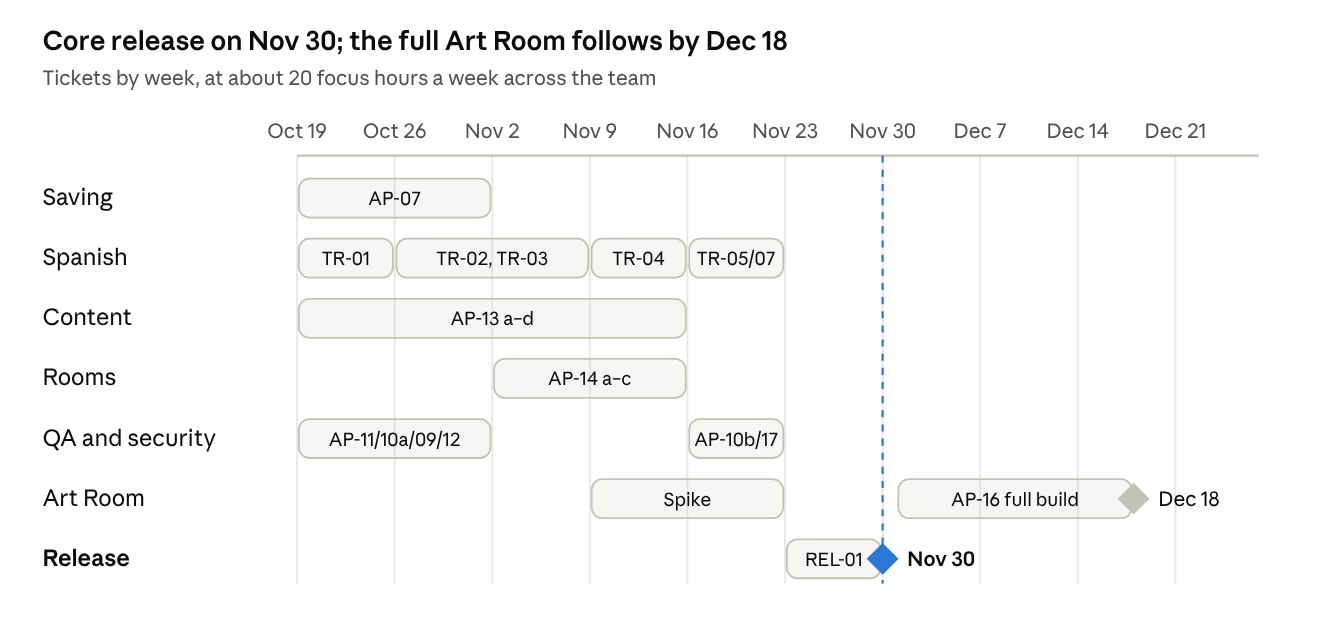
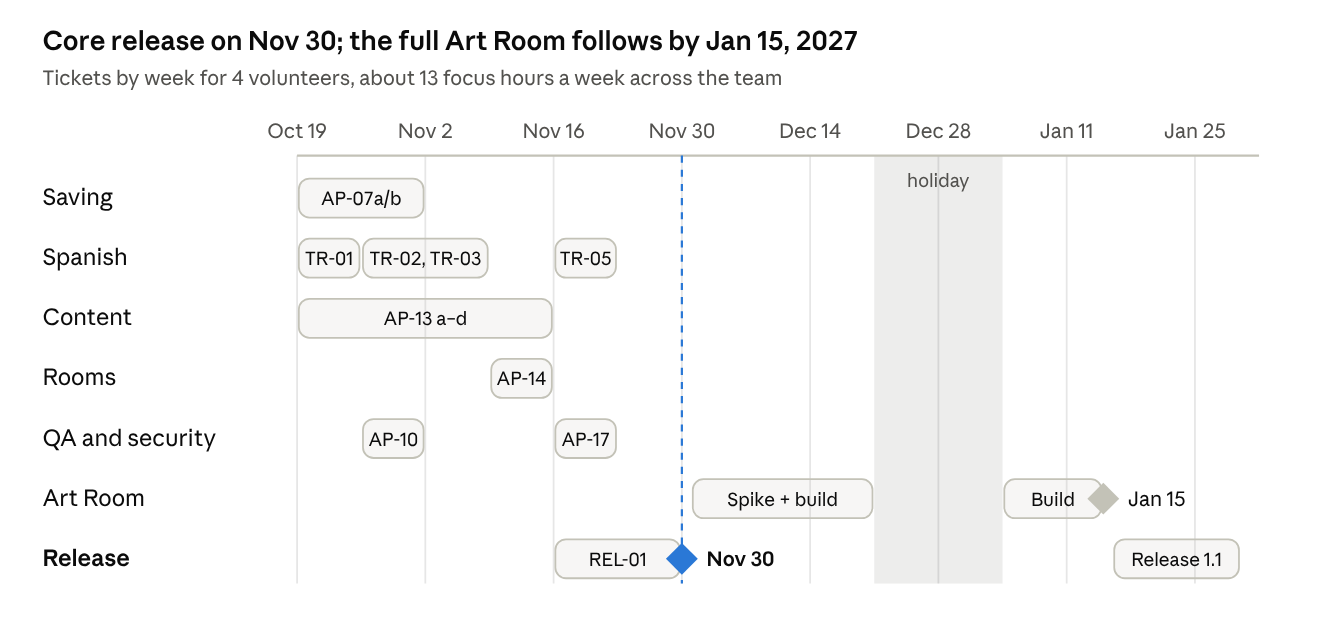
Rescale technical plan for 4 volunteers; Art Room target 15 Jan 2027

diff --git a/docs/technical-plan.md b/docs/technical-plan.md
@@ -9,9 +9,9 @@ The Wellness Portal is a free, anonymous website that Army Pink is building for 
 - **Where we are.** The foundation is complete and tested, about two weeks ahead of the original schedule. The site builds and runs, the privacy choice and device-only saving work end to end, and 92 automated tests pass. Most content is still placeholder text.
 - **How it is built.** The Portal is a static website with no backend server. That one decision removes the biggest privacy risk, a central store of survivors' data, and keeps the project cheap and simple for a volunteer team to run. Section 4 explains why.
 - **What happens next.** Six workstreams run in parallel over six weeks: saving polish, Spanish translation, real content, the recovery rooms, quality and security, and release.
-- **What changed in scope.** The developers are volunteers giving about 5 hours a week. The full interactive Art Room therefore moves to a second milestone, targeted for 18 December. The basic Art Room canvas ships at launch.
+- **What changed in scope.** The team is 4 volunteer developers giving about 5 hours a week, roughly 13 focused hours in total. That covers about 68 hours of work before 30 November, so the launch keeps every core feature and moves 33 hours of polish and tooling to a follow-up release in January. The full interactive Art Room moves to a second milestone, targeted for 15 January 2027. The basic Art Room canvas ships at launch.
 - **What we need from leadership.**
-  - confirmation of how many volunteers are active
+  - agreement that the deferred items in section 9 can follow in January
   - an owner for real content and for Spanish review
   - approval of the survivor-facing wording listed in section 11
 
@@ -189,18 +189,20 @@ No Spanish is shown for any clinical or safety content until TR-06 marks it appr
 
 ## 7. Team capacity
 
-The team has about 20 focused hours a week. This assumes 6 volunteers at 5 hours each, of which about two-thirds goes into tickets; the rest is code review, questions and context switching. With 5.5 working weeks to 29 November, that is about 110 focus hours. Thanksgiving week counts as half.
+The team has about 13 focused hours a week. That is 4 volunteers (confirmed 18 October) at 5 hours each, of which about two-thirds goes into tickets; the rest is code review, questions and context switching. With 5.5 working weeks to 29 November, that is about 74 focus hours, against 101 hours in the original release scope. The 33 lowest-risk hours move to Release 1.1 in January, leaving 68 hours and a 6-hour buffer. Thanksgiving week counts as half.
 
-| Input                     | Value    | Note                                                             |
-| ------------------------- | -------- | ---------------------------------------------------------------- |
-| Volunteer developers      | 6        | Assumption; recalculate when the roster is known                 |
-| Hours per person per week | 5        | Average stated by the team lead                                  |
-| Share spent on tickets    | 67%      | Remainder covers review, questions and setup                     |
-| Focus hours per week      | 20       | 6 × 5 × 0.67                                                     |
-| Weeks to release          | 5.5      | 19 Oct–29 Nov, Thanksgiving week at half                         |
-| Focus hours to release    | 110      |                                                                  |
-| Remaining release scope   | 104      | Backlog below, excluding the full Art Room                       |
-| Buffer                    | 6 h (5%) | Very thin: with fewer than 6 people, defer AP-12 and TR-07 first |
+| Input                     | Value    | Note                                                |
+| ------------------------- | -------- | --------------------------------------------------- |
+| Volunteer developers      | 4        | Confirmed 18 October                                |
+| Hours per person per week | 5        | Average stated by the team lead                     |
+| Share spent on tickets    | 67%      | Remainder covers review, questions and setup        |
+| Focus hours per week      | 13       | 4 × 5 × 0.67 = 13.4                                 |
+| Weeks to release          | 5.5      | 19 Oct–29 Nov, Thanksgiving week at half            |
+| Focus hours to release    | 74       |                                                     |
+| Original release scope    | 101      | 104 planned, less AP-11 (CI), which is already done |
+| Moved to Release 1.1      | 33       | Listed under "Deferred to Release 1.1" in section 9 |
+| Release scope now         | 68       |                                                     |
+| Buffer                    | 6 h (8%) | One volunteer missing a full week uses most of it   |
 
 **Working rules that make 5-hour weeks work.**
 
@@ -212,56 +214,61 @@ The team has about 20 focused hours a week. This assumes 6 volunteers at 5 hours
 
 ## 8. Schedule
 
-The core Portal releases on 30 November in English and Spanish. The full Art Room becomes a separate milestone with a target of 18 December, because the original plan's Art Room work does not fit in 5-hour weeks before then.
+The core Portal releases on 30 November in English and Spanish. The full Art Room becomes a separate milestone with a target of 15 January 2027, because the Art Room work does not fit in the team's 13 hours a week before launch. Lower-risk polish follows in Release 1.1 by 29 January 2027.
 
-![Schedule: tickets by week across 7 workstreams, core release 30 Nov, full Art Room by 18 Dec](images/schedule-timeline.png)
+![Schedule for 4 volunteers: core release 30 Nov, full Art Room by 15 Jan 2027, Release 1.1 by 29 Jan](images/schedule-timeline.png)
 
 Phases now run as parallel workstreams rather than in sequence. Week 6 holds only stabilization because of Thanksgiving. At launch the Art Room ships its current three-stage canvas, labelled as an early version.
 
-| Phase                                     | Original dates         | Revised dates           | State                 |
-| ----------------------------------------- | ---------------------- | ----------------------- | --------------------- |
-| 0 Audit and alignment                     | 19–23 Oct              | 18 Oct                  | Done                  |
-| 1 Shared foundation                       | 26–30 Oct              | 18 Oct                  | Done                  |
-| 2 Saving MVP                              | 2–6 Nov                | 18 Oct; polish in W1–W2 | Done; AP-07 remaining |
-| 3 Core experiences and content            | 9–13 Nov               | W1–W4                   | Planned               |
-| Spanish translation (new)                 | Not planned            | W1–W5                   | Planned               |
-| 4 Opportunities, partners, Art Room spike | 16–20 Nov              | W3–W5                   | Planned               |
-| 5 Testing, security, release readiness    | 23–25 Nov              | W5–W6                   | Partly in place       |
-| 6 Stabilization and release               | 26–30 Nov              | W6, release 30 Nov      | Planned               |
-| Art Room full build                       | 23–25 Nov, if feasible | 1–18 Dec                | Moved                 |
+| Phase                                     | Original dates         | Revised dates                           | State                 |
+| ----------------------------------------- | ---------------------- | --------------------------------------- | --------------------- |
+| 0 Audit and alignment                     | 19–23 Oct              | 18 Oct                                  | Done                  |
+| 1 Shared foundation                       | 26–30 Oct              | 18 Oct                                  | Done                  |
+| 2 Saving MVP                              | 2–6 Nov                | 18 Oct; polish in W1–W2                 | Done; AP-07 remaining |
+| 3 Core experiences and content            | 9–13 Nov               | W1–W4                                   | Planned               |
+| Spanish translation (new)                 | Not planned            | W1–W5                                   | Planned               |
+| 4 Opportunities, partners, Art Room spike | 16–20 Nov              | W2–W4; Art Room spike moved to December | Planned               |
+| 5 Testing, security, release readiness    | 23–25 Nov              | W5–W6                                   | Partly in place       |
+| 6 Stabilization and release               | 26–30 Nov              | W6, release 30 Nov                      | Planned               |
+| Art Room full build                       | 23–25 Nov, if feasible | 1 Dec–15 Jan, with a holiday break      | Moved                 |
 
 ## 9. Work backlog
 
-Release scope is 104 developer hours in tickets of 5 hours or less, ordered by week. AP-01 to AP-06 and AP-08 are done. TR-06 is review work for the content team and is not counted in developer hours.
+Release scope is 68 developer hours in tickets of 5 hours or less, about 13 hours a week. AP-01 to AP-06, AP-08 and AP-11 (CI) are done. TR-06 is review work for the content team and is not counted in developer hours.
 
-| Week | ID     | Ticket                                      | Workstream    | Hours    | Depends on | Acceptance criteria                                                |
-| ---- | ------ | ------------------------------------------- | ------------- | -------- | ---------- | ------------------------------------------------------------------ |
-| W1   | AP-11  | CI workflow                                 | QA & security | 3        | None       | Every PR runs typecheck, lint, unit and browser tests              |
-| W1   | TR-01  | Typed catalog and `t()`                     | Spanish       | 5        | None       | Unknown key fails typecheck; `<html lang>` follows choice          |
-| W1   | AP-07a | My Saved Items: group by room and activity  | Saving        | 3        | None       | Grouped list; filter keeps working; component test                 |
-| W1   | AP-10a | Accessibility checks with axe               | QA & security | 3        | None       | No serious or critical axe findings on any route                   |
-| W1   | AP-13a | Content schemas (Zod) for JSON              | Content       | 4        | None       | Schemas for library, modules, opportunities, partners, calm media  |
-| W2   | AP-07b | Saved Items: empty, error and reopen states | Saving        | 3        | AP-07a     | Tests for empty, storage-error and missing-item cases              |
-| W2   | TR-02a | Move shell and privacy strings to keys      | Spanish       | 4        | TR-01      | No sentence keys left in those files                               |
-| W2   | AP-13b | Healing Library as JSON                     | Content       | 4        | AP-13a     | Library pages read JSON; `data/portal.ts` entries removed          |
-| W2   | AP-09  | Remaining security items                    | QA & security | 4        | None       | Unused dependencies and components removed; dependency audit clean |
-| W2   | AP-12  | Analytics allowlist adapter (off)           | QA & security | 5        | None       | Rejects unknown events and free text; stays a no-op                |
-| W3   | TR-02b | Move room and library strings to keys       | Spanish       | 6        | TR-01      | Three PRs, one per area                                            |
-| W3   | AP-13c | Modules and Opportunities as JSON           | Content       | 4        | AP-13a     | Existing Opportunities categories preserved                        |
-| W3   | AP-14a | Recovery Rooms on shared components         | Rooms         | 4        | AP-13a     | Room pages use the shared card and SaveActions                     |
-| W3   | TR-03  | Review status and sensitive fallback        | Spanish       | 4        | TR-01      | Sensitive strings show English plus a notice until approved        |
-| W4   | AP-13d | Calm Room and partners as JSON              | Content       | 4        | AP-13a     | No invented partners; placeholders stay labelled                   |
-| W4   | AP-14b | Calm Room and Journals on shared components | Rooms         | 4        | AP-13d     | Media player accessible by keyboard; captions placeholder kept     |
-| W4   | AP-14c | Decision Support and Toolkit cleanup        | Rooms         | 4        | None       | Simulated PIN keeps its badge; save flow tested                    |
-| W4   | TR-04  | Translator CSV export/import and coverage   | Spanish       | 5        | TR-02a     | CSV round trip loses nothing; CI fails on missing keys             |
-| W4   | AP-18a | Art Room feasibility spike, part 1          | Art Room      | 3        | None       | Canvas approach chosen; touch and reduced-motion notes             |
-| W5   | TR-05  | Spanish layout QA                           | Spanish       | 4        | TR-02b     | Every route in Spanish passes on mobile and desktop                |
-| W5   | TR-07  | Spanish fields in content JSON              | Spanish       | 6        | AP-13b–d   | Status per record; fallback rule applied                           |
-| W5   | AP-10b | Browser tests per room                      | QA & security | 3        | AP-14a–c   | Each room's save path covered                                      |
-| W5   | AP-18b | Art Room spike, part 2 and estimate         | Art Room      | 3        | AP-18a     | Written estimate and ticket split for December                     |
-| W5   | AP-17  | Vercel deployment and rollback runbook      | QA & security | 4        | AP-11      | Preview deploy verified; rollback rehearsed once                   |
-| W6   | REL-01 | Stabilization and release checklist         | All           | 8        | All above  | Founder acceptance; known-limitations list published               |
-| Dec  | AP-16  | Full Art Room experience                    | Art Room      | about 30 | AP-18b     | Split into 5-hour tickets by the spike                             |
+| Week | ID      | Ticket                                       | Workstream    | Hours | Depends on | Acceptance criteria                                               |
+| ---- | ------- | -------------------------------------------- | ------------- | ----- | ---------- | ----------------------------------------------------------------- |
+| W1   | TR-01   | Typed catalog and `t()`                      | Spanish       | 5     | None       | Unknown key fails typecheck; `<html lang>` follows choice         |
+| W1   | AP-07a  | My Saved Items: group by room and activity   | Saving        | 3     | None       | Grouped list; filter keeps working; component test                |
+| W1   | AP-13a  | Content schemas (Zod) for JSON               | Content       | 4     | None       | Schemas for library, modules, opportunities, partners, calm media |
+| W2   | AP-07b  | Saved Items: empty, error and reopen states  | Saving        | 3     | AP-07a     | Tests for empty, storage-error and missing-item cases             |
+| W2   | TR-02a  | Move shell and privacy strings to keys       | Spanish       | 4     | TR-01      | No sentence keys left in those files                              |
+| W2   | AP-13b  | Healing Library as JSON                      | Content       | 4     | AP-13a     | Library pages read JSON; `data/portal.ts` entries removed         |
+| W2   | AP-10a  | Accessibility checks with axe                | QA & security | 3     | None       | No serious or critical axe findings on any route                  |
+| W3   | TR-02b  | Move room and library strings to keys        | Spanish       | 6     | TR-01      | Three PRs, one per area                                           |
+| W3   | AP-13c  | Modules and Opportunities as JSON            | Content       | 4     | AP-13a     | Existing Opportunities categories preserved                       |
+| W3   | TR-03   | Review status and sensitive fallback         | Spanish       | 4     | TR-01      | Sensitive strings show English plus a notice until approved       |
+| W4   | AP-13d  | Calm Room and partners as JSON               | Content       | 4     | AP-13a     | No invented partners; placeholders stay labelled                  |
+| W4   | AP-14a  | Recovery Rooms on shared components          | Rooms         | 4     | AP-13a     | Room pages use the shared card and SaveActions                    |
+| W4   | AP-14b  | Calm Room and Journals on shared components  | Rooms         | 4     | AP-13d     | Media player accessible by keyboard; captions placeholder kept    |
+| W5   | TR-05   | Spanish layout QA                            | Spanish       | 4     | TR-02b     | Every route in Spanish passes on mobile and desktop               |
+| W5   | AP-17   | Vercel deployment and rollback runbook       | QA & security | 4     | AP-11      | Preview deploy verified; rollback rehearsed once                  |
+| W5   | REL-01a | Release checklist and known-limitations list | All           | 3     | All above  | Checklist agreed with the founder                                 |
+| W6   | REL-01b | Stabilization and launch                     | All           | 5     | REL-01a    | Founder acceptance; release deployed 30 Nov                       |
+
+**Deferred to Release 1.1 (January 2027).** These 33 hours are the lowest-risk items: the launch works without them, and existing tests already cover the main flows. They are scheduled first after the Art Room work.
+
+| ID       | Ticket                                               | Hours | Why it can wait                                                |
+| -------- | ---------------------------------------------------- | ----- | -------------------------------------------------------------- |
+| AP-09    | Remaining security items (dependency pruning, audit) | 4     | Strict CSP and headers already in place                        |
+| AP-12    | Analytics allowlist adapter                          | 5     | Analytics stays off until the event list is approved anyway    |
+| TR-04    | Translator CSV export/import                         | 5     | Reviewers can work from the JSON files with a developer's help |
+| TR-07    | Spanish fields in content JSON                       | 6     | Content shows in English with a notice until then              |
+| AP-14c   | Decision Support and Toolkit cleanup                 | 4     | Both pages already work and save correctly                     |
+| AP-10b   | Browser tests per room                               | 3     | The main save flows are already tested                         |
+| AP-18a/b | Art Room feasibility spike                           | 6     | Moves with the Art Room milestone                              |
+
+**Art Room milestone.** The spike (6 h) plus the full build (AP-16, about 30 h) needs about three weeks at 13 hours a week. With a holiday break from 21 December to 3 January, the target is **15 January 2027**. The remaining Release 1.1 items follow by 29 January 2027.
 
 Week dates: W1 19–25 Oct, W2 26 Oct–1 Nov, W3 2–8 Nov, W4 9–15 Nov, W5 16–22 Nov, W6 23–29 Nov (half week).
 
@@ -293,16 +300,16 @@ The 30 November release ships only when every row below passes on the Vercel pre
 
 ## 11. Risks and approvals
 
-The biggest risk is capacity. A 6-hour buffer is lost if one volunteer misses two weeks, so scope is cut in a fixed order instead of letting the date slip.
+The biggest risk is capacity. With 4 volunteers, the 6-hour buffer is used up if one person misses a single week, so scope is cut in a fixed order instead of letting the date slip.
 
-| Risk                                                     | Effect                                   | Response                                                                              |
-| -------------------------------------------------------- | ---------------------------------------- | ------------------------------------------------------------------------------------- |
-| Fewer than 6 active volunteers, or less than 5 h each    | Release scope does not fit               | Defer in this order: AP-12, TR-07, AP-14c, AP-18b                                     |
-| Spanish reviewers not found by W4                        | Sensitive content stays English-only     | Acceptable at launch: the notice explains it; general UI still ships in draft Spanish |
-| Real content (Library, Opportunities) not supplied by W3 | Release ships with labelled placeholders | Content owner named in W1; placeholders keep their status tags                        |
-| Art Room estimate grows after the spike                  | December milestone slips                 | Ship the current three-stage canvas at launch, clearly labelled                       |
-| Reviews pile up                                          | Work sits finished but unmerged          | Reviews answered within 3 days; any member may review                                 |
-| Thanksgiving week                                        | About half capacity in W6                | Only stabilization planned for W6                                                     |
+| Risk                                                     | Effect                                   | Response                                                                                                               |
+| -------------------------------------------------------- | ---------------------------------------- | ---------------------------------------------------------------------------------------------------------------------- |
+| A volunteer leaves or gives less than 5 h a week         | Release scope does not fit               | Next cuts, in order: AP-13d (Calm Room and partners stay as TypeScript), then TR-05 replaced by a manual Spanish check |
+| Spanish reviewers not found by W4                        | Sensitive content stays English-only     | Acceptable at launch: the notice explains it; general UI still ships in draft Spanish                                  |
+| Real content (Library, Opportunities) not supplied by W3 | Release ships with labelled placeholders | Content owner named in W1; placeholders keep their status tags                                                         |
+| Art Room estimate grows after the spike                  | January milestone slips                  | Ship the current three-stage canvas at launch, clearly labelled                                                        |
+| Reviews pile up                                          | Work sits finished but unmerged          | Reviews answered within 3 days; any member may review                                                                  |
+| Thanksgiving week                                        | About half capacity in W6                | Only stabilization planned for W6                                                                                      |
 
 **Approvals needed from the founder.** These are listed in `docs/decisions/copy-pending-approval.md`.
 
@@ -315,6 +322,6 @@ The biggest risk is capacity. A 6-hour buffer is lost if one volunteer misses tw
 
 **Open questions.**
 
-- [ ] How many volunteers are active, and at what hours?
+- [ ] Answered 18 October: 4 volunteers at about 5 hours a week
 - [ ] Who owns content supply and Spanish review?
 - [ ] Are the Figma files still coming, and do they change any existing screens?

diff --git a/README.md b/README.md
@@ -12,7 +12,7 @@ The Portal is free and anonymous: there are no accounts, and nothing a visitor w
 | Privacy choice and saving | Done: "Save on This Device" or "Continue Without Saving", My Saved Items, ZIP export |
 | Content                   | Placeholder text, moving to reviewed JSON files                                      |
 | Spanish                   | Draft for part of the interface; review workflow planned                             |
-| Art Room                  | Basic canvas at launch; full experience targeted for 18 December 2026                |
+| Art Room                  | Basic canvas at launch; full experience targeted for 15 January 2027                 |
 
 ## Documentation
 
